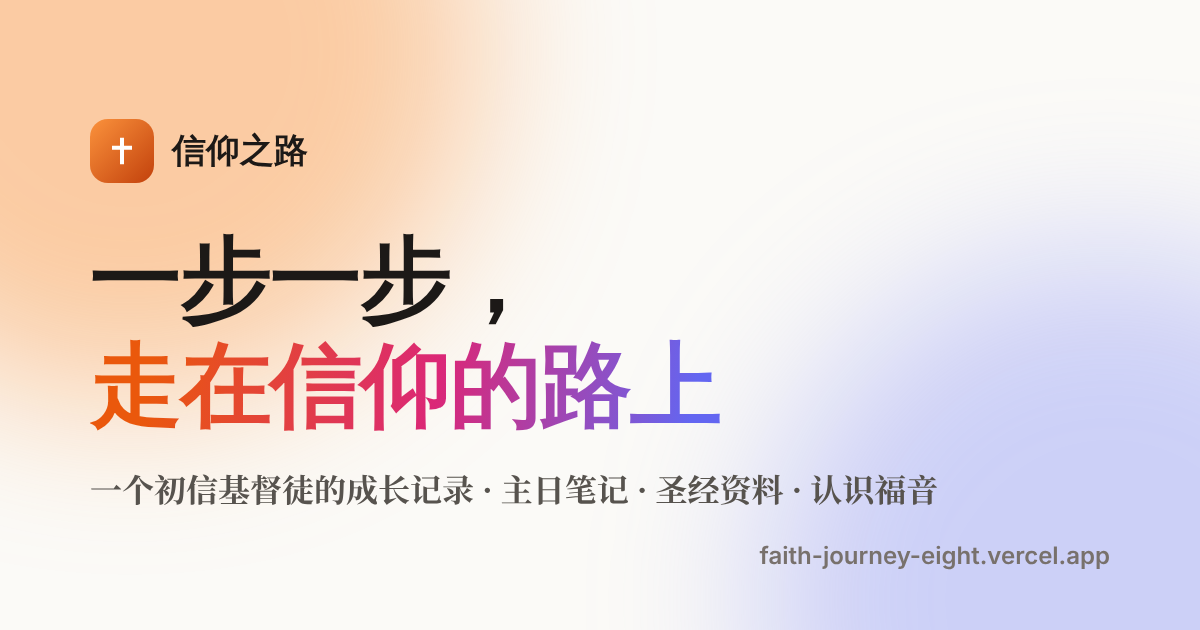
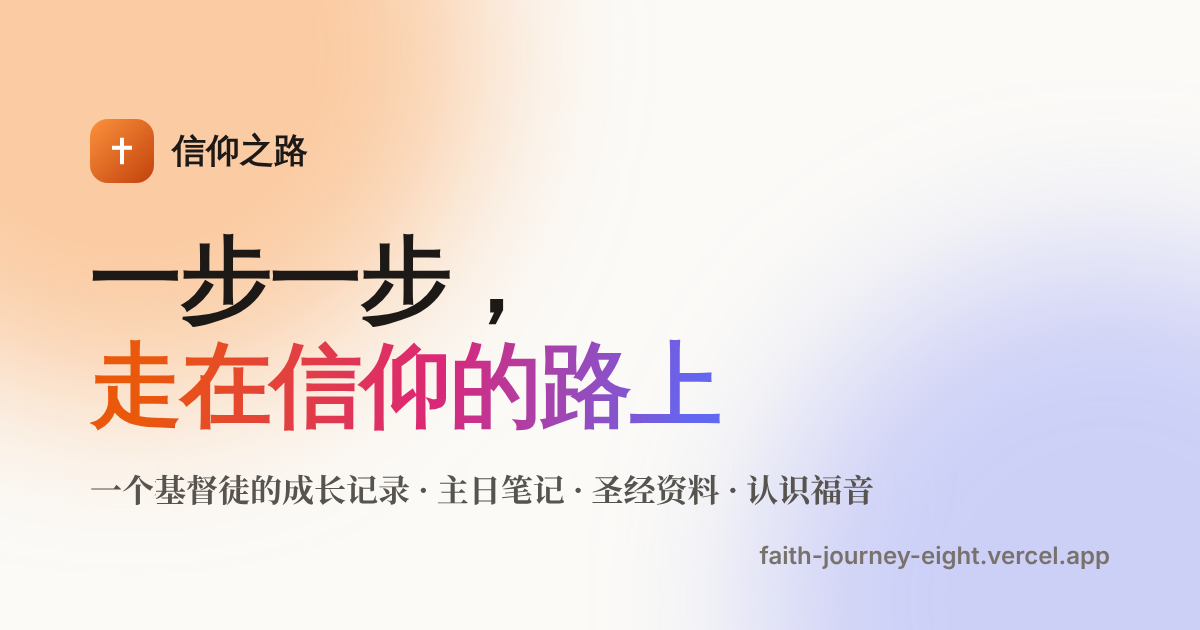
去掉「初信 / 刚信主不久」等说法，分享图同步更新
Claude-Session: https://claude.ai/code/session_01LfQHvh3XX3MUP69brNyq7s

Changed region(s): [[0.1233, 0.754, 0.8017, 0.8143]]

diff --git a/src/consts.ts b/src/consts.ts
@@ -1,8 +1,8 @@
 export const SITE_TITLE = '信仰之路';
 export const SITE_URL = 'https://faith-journey-eight.vercel.app';
 export const AUTHOR = 'Fawn';
-export const SITE_KEYWORDS = ['基督教', '信仰', '初信', '主日讲道', '讲道笔记', '圣经', '和合本', 'KJV', '中英对照', '福音', '耶稣基督'];
-export const SITE_SUBTITLE = '一个初信者的成长记录';
+export const SITE_KEYWORDS = ['基督教', '信仰', '主日讲道', '讲道笔记', '圣经', '和合本', 'KJV', '中英对照', '福音', '耶稣基督'];
+export const SITE_SUBTITLE = '一个基督徒的成长记录';
 export const SITE_DESCRIPTION =
   '记录我信主之后的成长：主日讲道笔记、经文学习、圣经事件和个人感想，也和你分享耶稣基督的好消息。';
 

diff --git a/src/content/posts/2026-11-08-faith-across-generations.md b/src/content/posts/2026-11-08-faith-across-generations.md
@@ -163,7 +163,7 @@ scriptures:
 - **马太福音 25** 十个童女都拿着灯、都在等，外表一样，区别在于有没有油。聪明的不能分油给别人（25:9），正如幻灯片说的：信仰不是从父母继承来的，而是自己与神活的关系。
 - **和今天的圣餐、诗歌**：圣餐本身就是“记念”，一代代教会用它记得主的恩典；回应诗歌「我知谁掌管明天」则对应“等候神的应许成就”的盼望。
 
-对初信的我来说，这篇讲道有两层意思：一是我自己的信仰不必等“继承”，可以今天就选择；二是我与神的故事，也会成为别人的属灵根基。
+对我来说，这篇讲道有两层意思：一是我自己的信仰不必等“继承”，可以今天就选择；二是我与神的故事，也会成为别人的属灵根基。
 
 ## 反思与祈祷
 

diff --git a/README.md b/README.md
@@ -1,6 +1,6 @@
 # 信仰之路
 
-一个初信基督徒的成长记录网站：主日讲道笔记、经文学习、圣经事件、个人感想和圣经资料，并有一页「认识福音」用来和朋友分享。
+一个基督徒的信仰成长记录网站：主日讲道笔记、经文学习、圣经事件、个人感想和圣经资料，并有一页「认识福音」用来和朋友分享。
 
 用 [Astro](https://astro.build) 生成静态网站，部署在 [Vercel](https://vercel.com)。
 
